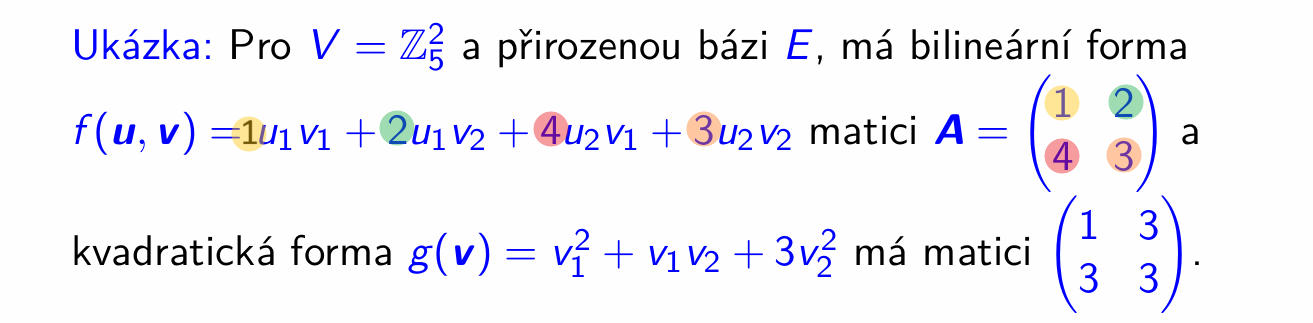
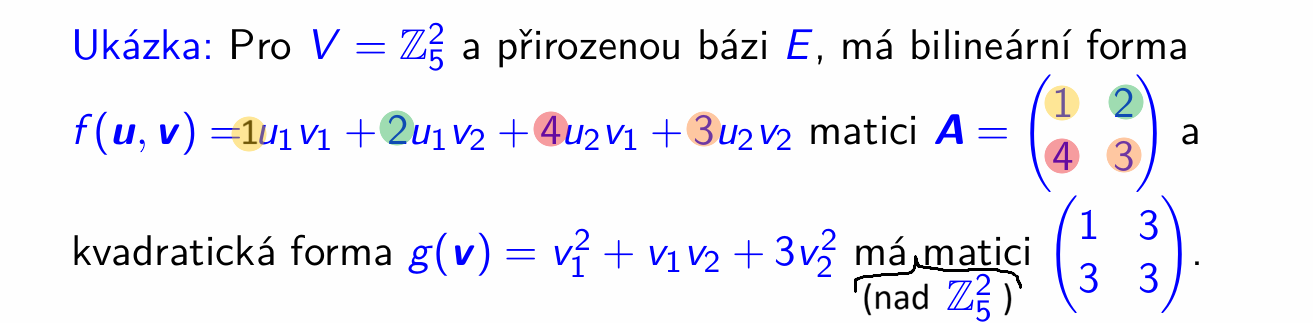
Symetrizace matice pro matici kvadratické formy

Changed region(s): [[0.6558, 0.805, 0.7807, 0.9907]]

diff --git a/Kvadratické_a_bilineární_formy.md b/Kvadratické_a_bilineární_formy.md
@@ -103,6 +103,43 @@ Proto se matice kvadratické formy definuje tak, že je to "ta symetrická", pro
 
 (kromě toho edge case, kdy bychom něměli číslo 2, viz $\mathbb{Z}_2$ - pak bychom se asi museli smířit s tím co máme, a netrvat na symetrii - stejně by symetrická a nesymetrická verze téže formy po dosazení vstupních vektorů měla dát stejné číslo)
 
+Alternativně, **máme-li už nějakou nesymetrickou matici formy A**, tak z ní můžeme udělat symetrickou matici B takto: 
+
+$$B = \frac 1 2 (A + A^T)$$
+
+$B$ už je v pohodě matice kvadratické formy, protože je symetrická.
+
+Př. z analytického vyjádření kvadratické formy $g(\mathbf v) = v_1^2 + v_1 v_2 + 3 v_2^2$ (nad $\mathbb{Z}_5$) dostaneme $A = \begin{pmatrix} 1 & 1 \\ 0 & 3 \end{pmatrix}$ 
+
+<details> <summary> Viz ukázka výše s barevnými tečkami </summary>
+
+![](image-401.png)
+
+</details>
+
+<details>
+
+<summary>
+Zkouška výpočtené A
+</summary>
+
+$$\begin{pmatrix} v_1 & v_2 \end{pmatrix} \begin{pmatrix} 1 & 3 \\ 3 & 3 \end{pmatrix} \begin{pmatrix} v_1 \\ v_2 \end{pmatrix}$$
+
+$$\begin{pmatrix} v_1 & v_2 \end{pmatrix} \begin{pmatrix} 1 & 1 \\ 0 & 3 \end{pmatrix} \begin{pmatrix} v_1 \\ v_2 \end{pmatrix} = \begin{pmatrix} v_1 & v_1 + 3v_2 \end{pmatrix} \begin{pmatrix} v_1 \\ v_2 \end{pmatrix} = v_1^2 + (v_1 + 3v_2)v_2 = v_1^2 + v_1v_2 + 3v_2^2$$
+- fungovalo by to i s $\begin{pmatrix} 1 & 0 \\ 1 & 3 \end{pmatrix}$, tj. nemusíme si pamatovat, které souřadnice (z dolních indexů) je která, nebo tak něco.
+
+</details>
+<br>
+
+Pak $A$ symetrizujeme:
+
+protože jsme nad $\mathbb{Z}_5$, tak $\frac 1 2$ bude $1 \cdot 2^{-1}$ (inverzní prvek k $2$), což v $\mathbb{Z}_5$ je $3$.
+
+$3 \left(\ \begin{pmatrix} 1 & 1 \\ 0 & 3 \end{pmatrix} + \begin{pmatrix} 1 & 0 \\ 1 & 3 \end{pmatrix} \ \right) = \begin{pmatrix} 1 & 3 \\ 3 & 3 \end{pmatrix}$
+
+To odpovídá výsledku ze slidu.
+______________
+
 ##### Proč teda chceme symetrii
 
 Spousta nástrojů v lineární algebře pracuje s symetrickými maticemi.
